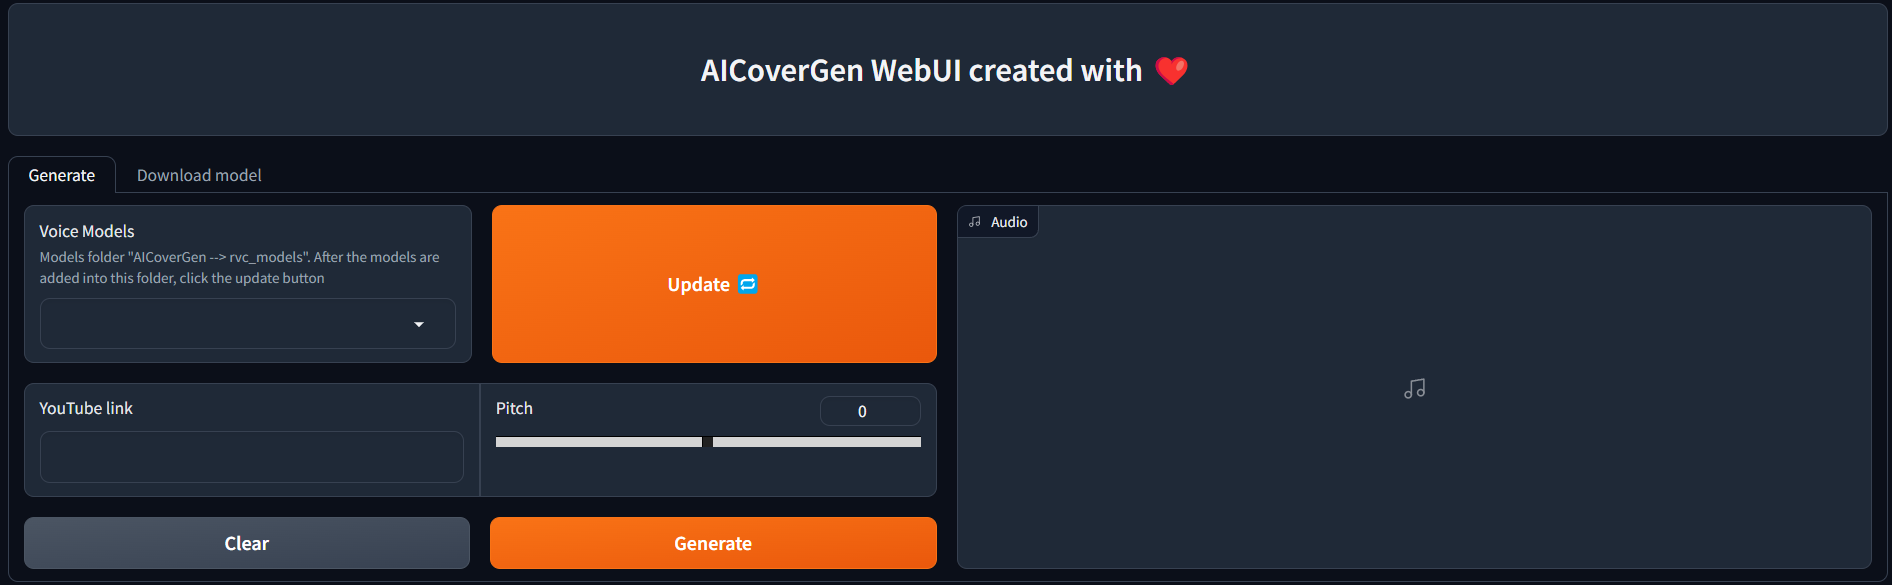
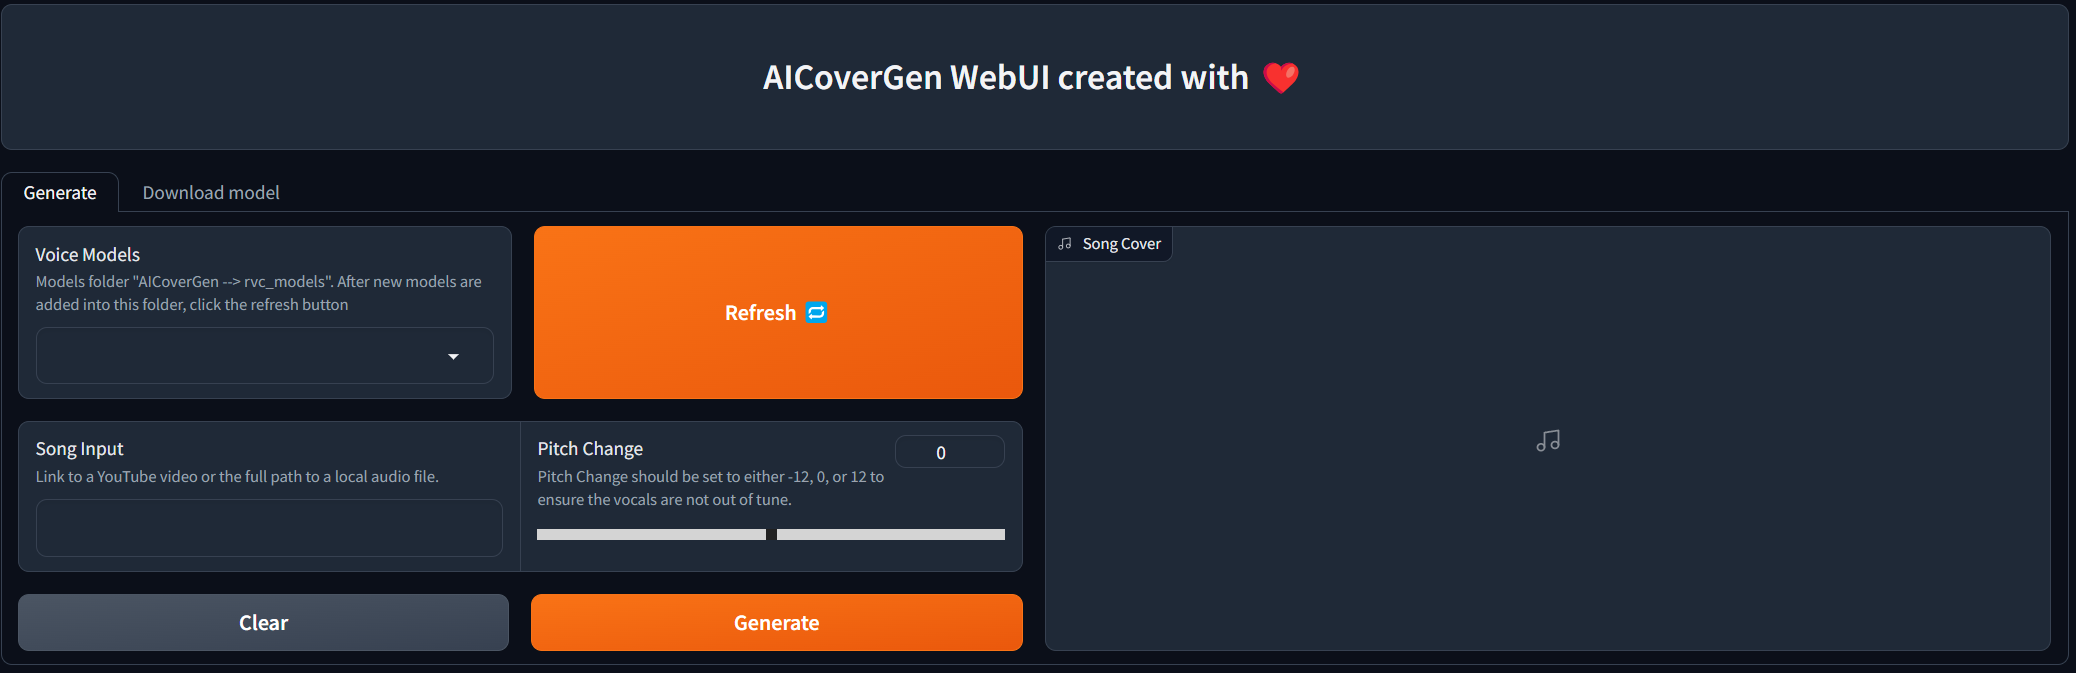
feat: Support for generation using local audio file

diff --git a/src/main.py b/src/main.py
@@ -1,16 +1,16 @@
 import gc
+import hashlib
 import json
 import os
-import re
 from argparse import ArgumentParser
+from contextlib import suppress
+from urllib.parse import urlparse, parse_qs
 
+import gradio as gr
 import yt_dlp
 from pedalboard import Pedalboard, Reverb, Compressor, HighpassFilter
 from pedalboard.io import AudioFile
-from urllib.parse import urlparse, parse_qs
-from contextlib import suppress
 from pydub import AudioSegment
-import gradio as gr
 
 from mdx import run_mdx
 from rvc import Config, load_hubert, get_vc, rvc_infer
@@ -71,6 +71,13 @@ def yt_download(link):
     return download_path
 
 
+def raise_exception(error_msg, is_webui):
+    if is_webui:
+        raise gr.Error(error_msg)
+    else:
+        raise Exception(error_msg)
+
+
 def get_rvc_model(voice_model, is_webui):
     rvc_model_filename, rvc_index_filename = None, None
     model_dir = os.path.join(rvc_models_dir, voice_model)
@@ -83,10 +90,7 @@ def get_rvc_model(voice_model, is_webui):
 
     if rvc_model_filename is None:
         error_msg = f'No model file exists in {model_dir}.'
-        if is_webui:
-            raise gr.Error(error_msg)
-        else:
-            raise Exception(error_msg)
+        raise_exception(error_msg, is_webui)
 
     return os.path.join(model_dir, rvc_model_filename), os.path.join(model_dir, rvc_index_filename) if rvc_index_filename else ''
 
@@ -111,6 +115,15 @@ def get_audio_paths(song_dir):
     return orig_song_path, instrumentals_path, main_vocals_dereverb_path, backup_vocals_path
 
 
+def get_hash(filepath):
+    with open(filepath, 'rb') as f:
+        file_hash = hashlib.blake2b()
+        while chunk := f.read(8192):
+            file_hash.update(chunk)
+
+    return file_hash.hexdigest()[:11]
+
+
 def display_progress(message, percent, is_webui, progress=None):
     if is_webui:
         progress(percent, desc=message)
@@ -118,14 +131,21 @@ def display_progress(message, percent, is_webui, progress=None):
         print(message)
 
 
-def preprocess_song(yt_link, mdx_model_params, song_id, is_webui, progress=None):
-    display_progress('[~] Downloading song...', 0, is_webui, progress)
-    orig_song_path = yt_download(yt_link)
+def preprocess_song(song_input, mdx_model_params, song_id, is_webui, input_type, progress=None):
+    keep_orig = False
+    if input_type == 'yt':
+        display_progress('[~] Downloading song...', 0, is_webui, progress)
+        orig_song_path = yt_download(song_input)
+    elif input_type == 'local':
+        orig_song_path = song_input
+        keep_orig = True
+    else:
+        orig_song_path = None
 
     song_output_dir = os.path.join(output_dir, song_id)
 
     display_progress('[~] Separating Vocals from Instrumental...', 0.1, is_webui, progress)
-    vocals_path, instrumentals_path = run_mdx(mdx_model_params, song_output_dir, os.path.join(mdxnet_models_dir, 'UVR-MDX-NET-Voc_FT.onnx'), orig_song_path, denoise=True, keep_orig=False)
+    vocals_path, instrumentals_path = run_mdx(mdx_model_params, song_output_dir, os.path.join(mdxnet_models_dir, 'UVR-MDX-NET-Voc_FT.onnx'), orig_song_path, denoise=True, keep_orig=keep_orig)
 
     display_progress('[~] Separating Main Vocals from Backup Vocals...', 0.2, is_webui, progress)
     backup_vocals_path, main_vocals_path = run_mdx(mdx_model_params, song_output_dir, os.path.join(mdxnet_models_dir, 'UVR_MDXNET_KARA_2.onnx'), vocals_path, suffix='Backup', invert_suffix='Main', denoise=True)
@@ -175,26 +195,40 @@ def combine_audio(audio_paths, output_path):
     main_vocal_audio.overlay(backup_vocal_audio).overlay(instrumental_audio).export(output_path, format='mp3')
 
 
-def song_cover_pipeline(yt_link, voice_model, pitch_change, is_webui=0, progress=gr.Progress()):
+def song_cover_pipeline(song_input, voice_model, pitch_change, is_webui=0, progress=gr.Progress()):
     try:
+        if not song_input or not voice_model:
+            raise_exception('Ensure that the song input field and voice model field is filled.', is_webui)
+            
         display_progress('[~] Starting AI Cover Generation Pipeline...', 0, is_webui, progress)
 
         with open(os.path.join(mdxnet_models_dir, 'model_data.json')) as infile:
             mdx_model_params = json.load(infile)
 
-        song_id = get_youtube_video_id(yt_link)
-        if song_id is None:
-            error_msg = 'Invalid YouTube url.'
-            if is_webui:
-                raise gr.Error(error_msg)
+        # if youtube url
+        if urlparse(song_input).scheme == 'https':
+            input_type = 'yt'
+            song_id = get_youtube_video_id(song_input)
+            if song_id is None:
+                error_msg = 'Invalid YouTube url.'
+                raise_exception(error_msg, is_webui)
+
+        # local audio file
+        else:
+            input_type = 'local'
+            song_input = song_input.strip('\"')
+            if os.path.exists(song_input):
+                song_id = get_hash(song_input)
             else:
-                raise Exception(error_msg)
+                error_msg = f'{song_input} does not exist.'
+                song_id = None
+                raise_exception(error_msg, is_webui)
 
         song_dir = os.path.join(output_dir, song_id)
 
         if not os.path.exists(song_dir):
             os.makedirs(song_dir)
-            orig_song_path, vocals_path, instrumentals_path, main_vocals_path, backup_vocals_path, main_vocals_dereverb_path = preprocess_song(yt_link, mdx_model_params, song_id, is_webui, progress)
+            orig_song_path, vocals_path, instrumentals_path, main_vocals_path, backup_vocals_path, main_vocals_dereverb_path = preprocess_song(song_input, mdx_model_params, song_id, is_webui, input_type, progress)
 
         else:
             vocals_path, main_vocals_path = None, None
@@ -202,12 +236,12 @@ def song_cover_pipeline(yt_link, voice_model, pitch_change, is_webui=0, progress
 
             # if any of the audio files aren't available, rerun preprocess
             if any(path is None for path in paths):
-                orig_song_path, vocals_path, instrumentals_path, main_vocals_path, backup_vocals_path, main_vocals_dereverb_path = preprocess_song(yt_link, mdx_model_params, song_id, progress)
+                orig_song_path, vocals_path, instrumentals_path, main_vocals_path, backup_vocals_path, main_vocals_dereverb_path = preprocess_song(song_input, mdx_model_params, song_id, is_webui, input_type, progress)
             else:
                 orig_song_path, instrumentals_path, main_vocals_dereverb_path, backup_vocals_path = paths
 
         ai_vocals_path, ai_vocals_mixed_path = None, None
-        ai_cover_path = os.path.join(song_dir, f'{os.path.splitext(orig_song_path)[0]} ({voice_model} Ver {pitch_change}).mp3')
+        ai_cover_path = os.path.join(song_dir, f'{os.path.splitext(os.path.basename(orig_song_path))[0]} ({voice_model} Ver {pitch_change}).mp3')
 
         if not os.path.exists(ai_cover_path):
             display_progress('[~] Converting voice using RVC...', 0.5, is_webui, progress)
@@ -228,15 +262,12 @@ def song_cover_pipeline(yt_link, voice_model, pitch_change, is_webui=0, progress
         return ai_cover_path
 
     except Exception as e:
-        if is_webui:
-            raise gr.Error(str(e))
-        else:
-            raise Exception(str(e))
+        raise_exception(str(e), is_webui)
 
 
 if __name__ == '__main__':
     parser = ArgumentParser(description='Generate a AI cover song in the song_output/id directory.', add_help=True)
-    parser.add_argument('-yt', '--youtube-link', type=str, required=True, help='Link to a youtube video to create an AI cover of')
+    parser.add_argument('-i', '--song-input', type=str, required=True, help='Link to a YouTube video or the filepath to a local mp3/wav file to create an AI cover of')
     parser.add_argument('-dir', '--rvc-dirname', type=str, required=True, help='Name of the folder in the rvc_models directory containing the RVC model file and optional index file to use')
     parser.add_argument('-p', '--pitch-change', type=int, required=True, help='Change the pitch of the AI voice. Generally use 12 for male to female conversions and -12 for vice-versa. Use 0 for no change')
     args = parser.parse_args()
@@ -245,5 +276,5 @@ if __name__ == '__main__':
     if not os.path.exists(os.path.join(rvc_models_dir, rvc_dirname)):
         raise Exception(f'The folder {os.path.join(rvc_models_dir, rvc_dirname)} does not exist.')
 
-    cover_path = song_cover_pipeline(args.youtube_link, rvc_dirname, args.pitch_change)
+    cover_path = song_cover_pipeline(args.song_input, rvc_dirname, args.pitch_change)
     print(f'[+] Cover generated at {cover_path}')

diff --git a/src/webui.py b/src/webui.py
@@ -1,10 +1,8 @@
-import json
 import os
+import shutil
 import urllib.request
 import zipfile
-import shutil
 from argparse import ArgumentParser
-
 
 import gradio as gr
 
@@ -94,17 +92,17 @@ if __name__ == '__main__':
                         ref_btn = gr.Button('Refresh 🔁', variant='primary', scale=9)
 
                     with gr.Row():
-                        video_link = gr.Text(label='YouTube link')
-                        pitch = gr.Slider(-12, 12, value=0, step=1, label='Pitch', info='Pitch should be set to either -12, 0, or 12 to ensure the vocals are not out of tune.')
+                        song_input = gr.Text(label='Song Input', info='Link to a YouTube video or the full path to a local audio file.')
+                        pitch = gr.Slider(-12, 12, value=0, step=1, label='Pitch Change', info='Pitch Change should be set to either -12, 0, or 12 to ensure the vocals are not out of tune.')
 
                     with gr.Row():
-                        clear_btn = gr.ClearButton(value='Clear', components=[video_link, rvc_model, pitch])
+                        clear_btn = gr.ClearButton(value='Clear', components=[song_input, rvc_model, pitch])
                         generate_btn = gr.Button("Generate", variant='primary')
 
-                song_cover = gr.Audio(label='Song Cover', show_share_button=False)
+                ai_cover = gr.Audio(label='AI Cover', show_share_button=False)
                 ref_btn.click(update_models_list, None, outputs=rvc_model)
                 is_webui = gr.Number(value=1, visible=False)
-                generate_btn.click(song_cover_pipeline, inputs=[video_link, rvc_model, pitch, is_webui], outputs=[song_cover])
+                generate_btn.click(song_cover_pipeline, inputs=[song_input, rvc_model, pitch, is_webui], outputs=[ai_cover])
         
         # Download tab
         with gr.Tab("Download model"):

diff --git a/README.md b/README.md
@@ -1,5 +1,5 @@
 # AICoverGen
-An autonomous pipeline to create covers with any RVC v2 trained AI voice from YouTube videos. For developers who may want to add a singing functionality into their AI assistant/chatbot/vtuber, or for people who want to hear their favourite characters sing their favourite song.
+An autonomous pipeline to create covers with any RVC v2 trained AI voice from YouTube videos or a local audio file. For developers who may want to add a singing functionality into their AI assistant/chatbot/vtuber, or for people who want to hear their favourite characters sing their favourite song.
 
 Showcase: https://www.youtube.com/watch?v=2qZuE4WM7CM
 
@@ -11,7 +11,7 @@ WebUI is under constant development and testing, but you can try it out right no
 
 ## Colab notebook
 
-For those without a powerful enough NVIDIA GPU, you may try AICoverGen out using Google Colab.
+For those without a powerful enough GPU, you may try AICoverGen out using Google Colab.
 
 [![Open In Colab](https://colab.research.google.com/assets/colab-badge.svg)](https://colab.research.google.com/github/SociallyIneptWeeb/AICoverGen/blob/main/AICoverGen_colab.ipynb)
 
@@ -72,7 +72,7 @@ Once the 2 input fields are filled in, simply click `Download`! Once the output 
 ![](images/webui_generate.png?raw=true)
 
 - From the Voice Models dropdown menu, select the voice model to use. Click `Update` if you added the files manually to the [rvc_models](rvc_models) directory to refresh the list.
-- In the YouTube link field, copy and paste the link to any song on YouTube.
+- In the song input field, copy and paste the link to any song on YouTube or the full path to a local audio file.
 - Pitch should be set to either -12, 0, or 12 depending on the original vocals and the RVC AI modal. This ensures the voice is not *out of tune*.
 
 Once all fields are filled in, click `Generate` and the AI generated cover should appear in a less than a few minutes depending on your GPU.
@@ -104,10 +104,10 @@ The directory structure should look something like this:
 To run the AI cover generation pipeline using the command line, run the following command.
 
 ```
-python src/main.py -yt YOUTUBE_LINK -dir MODEL_DIR_NAME -p PITCH_CHANGE
+python src/main.py -i SONG_INPUT -dir MODEL_DIR_NAME -p PITCH_CHANGE
 ```
 
-- Replace YOUTUBE_LINK with any link to a song on YouTube. Link should be enclosed in double quotes for Windows and single quotes for Unix-like systems
+- Replace SONG_INPUT with any link to a song on YouTube or path to a local audio file. This should be enclosed in double quotes for Windows and single quotes for Unix-like systems.
 - Replace MODEL_DIR_NAME with the name of the folder in the [rvc_models](rvc_models) directory containing your `.pth` and `.index` files.
 - Replace PITCH_CHANGE with 0 for no change in pitch to the AI vocals. Generally use 12 for male to female conversions or -12 for vice-versa.
 
